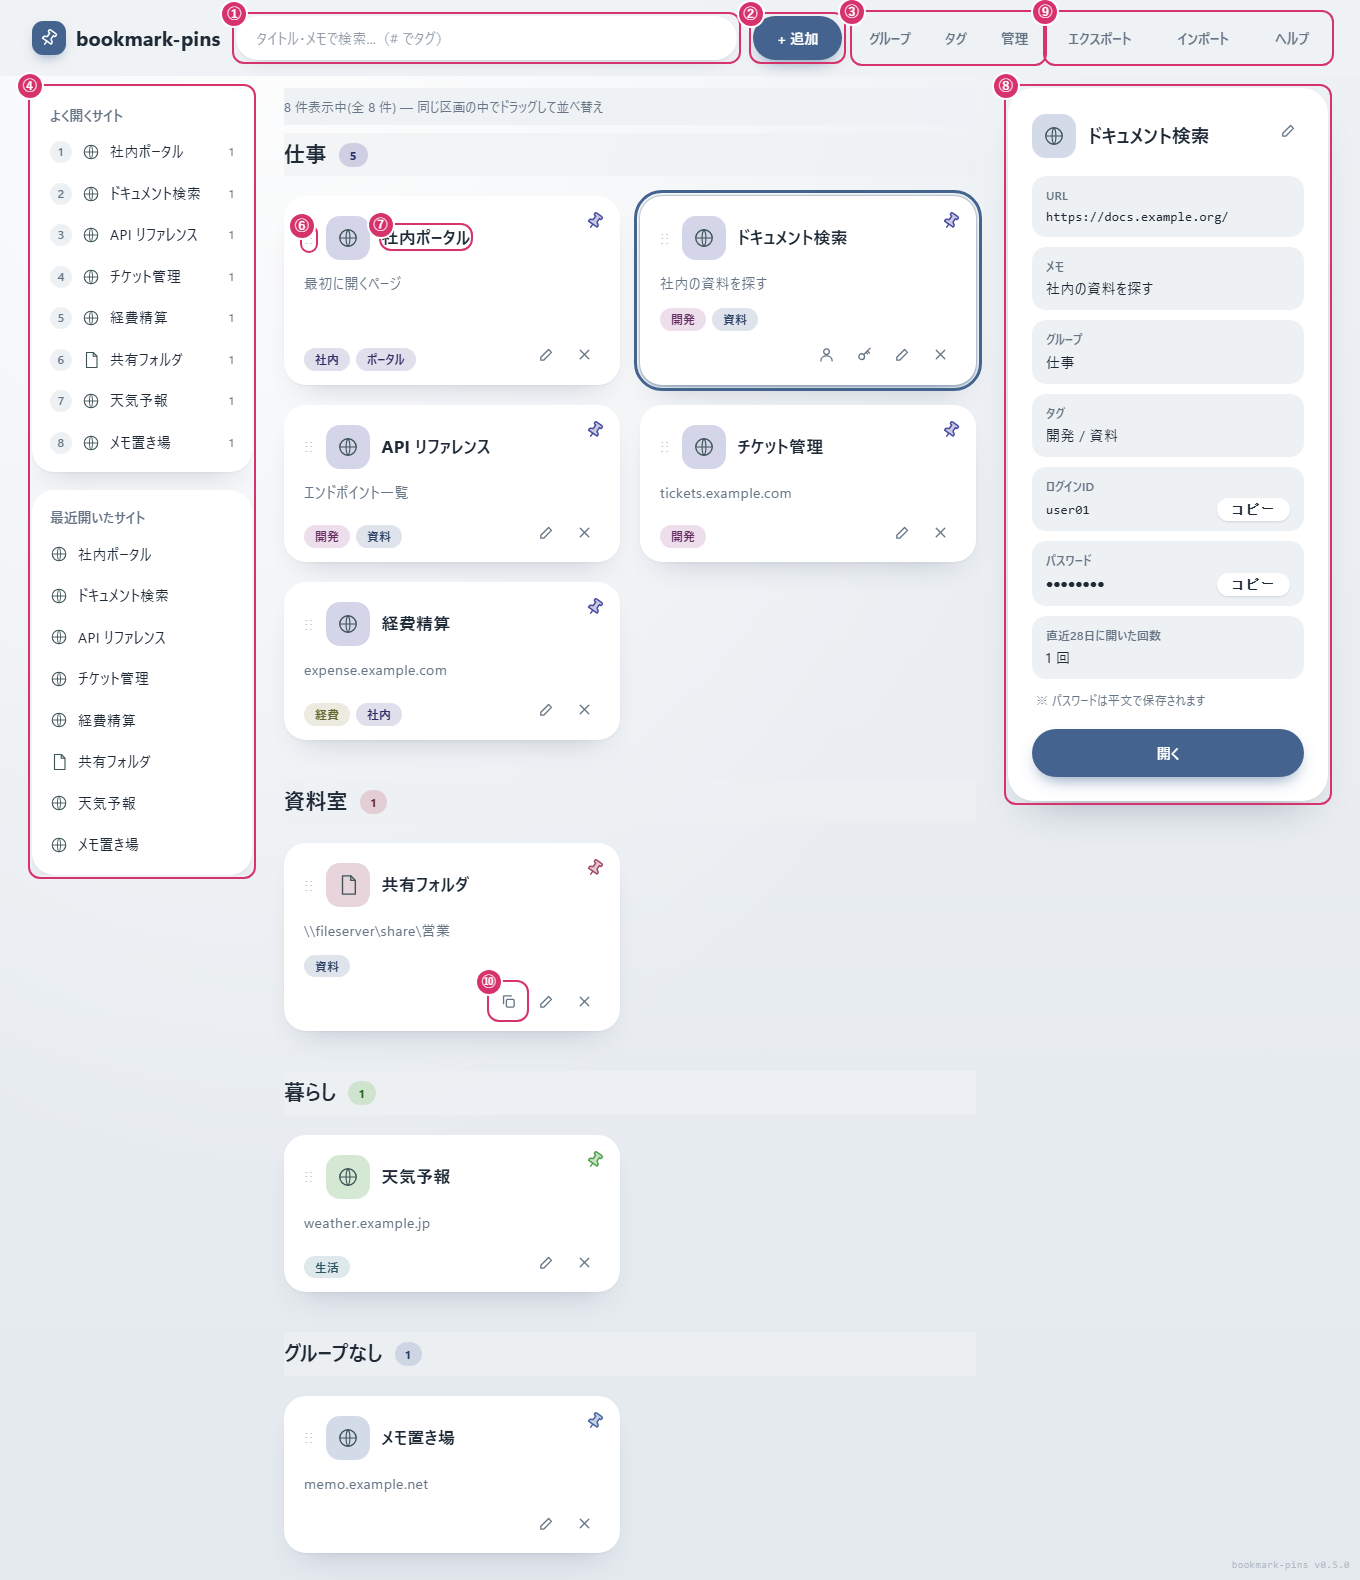
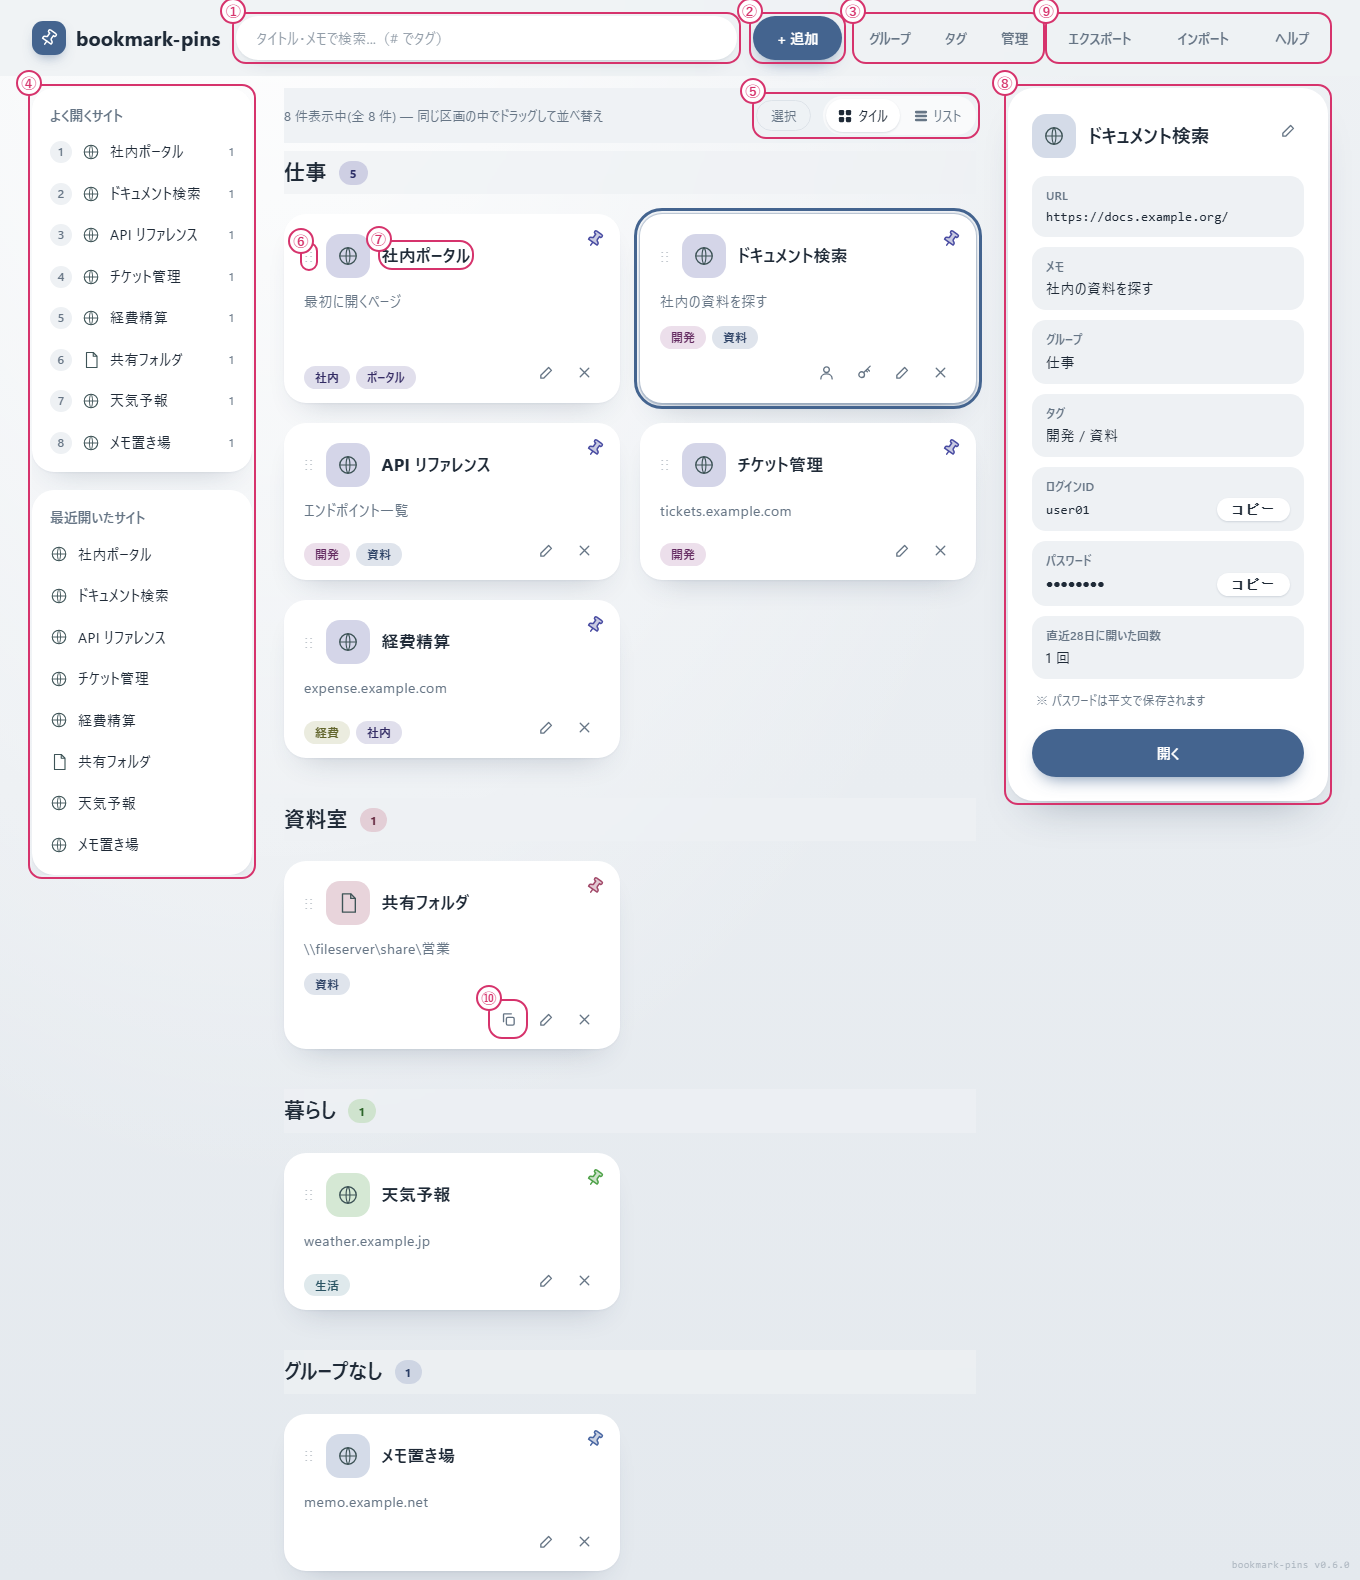
docs: README の画面図を、v0.6.0 の画面に差し替える (#23)

diff --git a/README.md b/README.md
@@ -35,7 +35,7 @@ start bookmark-pins\bookmarks.html
 
 タグを付けて保存すると、③ の「タグ」ボタンのパネルに、そのタグが出ます。グループを付けると、一覧に、グループごとの区画が並びます（グループが無いものは、最後の「グループなし」の区画に出ます）。以降、一覧のグループごとのまとまりを「区画」と呼びます。
 
-![bookmark-pins の画面。上に、①検索ボックス、②「+ 追加」、③「グループ」「タグ」「管理」、⑨「エクスポート」「インポート」「ヘルプ」。左に、④「よく開くサイト」と「最近開いたサイト」。中央に、グループごとの区画があり、各カードに、⑥ドラッグ用のグリップと、⑦タイトルがある。「共有フォルダ」のカードに、⑩パスをコピーするボタン。右に、⑧選択したカードの詳細パネル](docs/images/usage.png)
+![bookmark-pins の画面。上に、①検索ボックス、②「+ 追加」、③「グループ」「タグ」「管理」、⑨「エクスポート」「インポート」「ヘルプ」。左に、④「よく開くサイト」と「最近開いたサイト」。中央の上に、⑤件数表示の行の右端の「選択」と「タイル」「リスト」。その下に、グループごとの区画があり、各カードに、⑥ドラッグ用のグリップと、⑦タイトルがある。「共有フォルダ」のカードに、⑩パスをコピーするボタン。右に、⑧選択したカードの詳細パネル](docs/images/usage.png)
 
 図 1: 画面の見かた。次の表の番号は、この図の番号です。
 
@@ -53,9 +53,9 @@ start bookmark-pins\bookmarks.html
 | 編集する | カード右下の鉛筆のアイコンを押す | そのカードの位置に、編集フォームが出る |
 | 削除する | カード右下の × のアイコンを押す | 確認ダイアログのあとに、そのカードが消える（取り消せない） |
 | 並べ替える | ⑥ をドラッグし、別のカードの左半分（前）か右半分（後ろ）に落とす（リストでは、上半分が前、下半分が後ろ） | 同じ区画の中で、順番が保存される |
-| 表示を切り替える | 一覧の上の、件数表示の行の右端にある「タイル」「リスト」を押す | 一覧がカードか、1件ずつの行に変わる（選んだ表示は次回も使われる） |
+| 表示を切り替える | ⑤ の「タイル」「リスト」を押す | 一覧がカードか、1件ずつの行に変わる（選んだ表示は次回も使われる） |
 | 新しいタグ・グループを、既存の件へまとめて付ける | ③「管理」を押し、タブを選んで「新しく作って付ける」（既存の名前なら、行の「付け外し」） | 全ブックマークのチェックリストが出る。検索と「表示中を全選択」で絞って、チェックを付け外しし、変わる件数（グループでは、別のグループから移る件数も）を見て「適用」を押す |
-| 選んだ複数の行に、まとめて付け外しする | 一覧の上の「選択」を押し、行を選ぶ（検索・絞り込みを変えても、選んだ行は残る）。バーの「タグ…」「グループ…」を押す | 名前を入れて「付ける」「外す」（グループは「付ける(設定)」「グループなしにする」）を押すと、変わる件数が出る。「適用」で反映する。選択モード中は、並べ替えはできない |
+| 選んだ複数の行に、まとめて付け外しする | ⑤ の「選択」を押し、行を選ぶ（検索・絞り込みを変えても、選んだ行は残る）。バーの「タグ…」「グループ…」を押す | 名前を入れて「付ける」「外す」（グループは「付ける(設定)」「グループなしにする」）を押すと、変わる件数が出る。「適用」で反映する。選択モード中は、並べ替えはできない |
 | グループで絞る | ③ の「グループ」を押し、グループを選ぶ | そのグループの区画だけが出る（もう一度選ぶか、「すべて」を選ぶと戻る） |
 | タグを整理する | ③「管理」を押し、「タグ」のタブを選ぶ | 名前変更・削除・色の選択ができる（タグは名前順に並ぶ） |
 | グループを整理する | ③「管理」を押す（「グループ」のタブが先に開く） | 名前変更（同じ名前にすると統合）・削除・並べ替え・色の選択ができる。グループの色は、タグの色とは別に決まる。グループを削除しても、ブックマークは残る |
